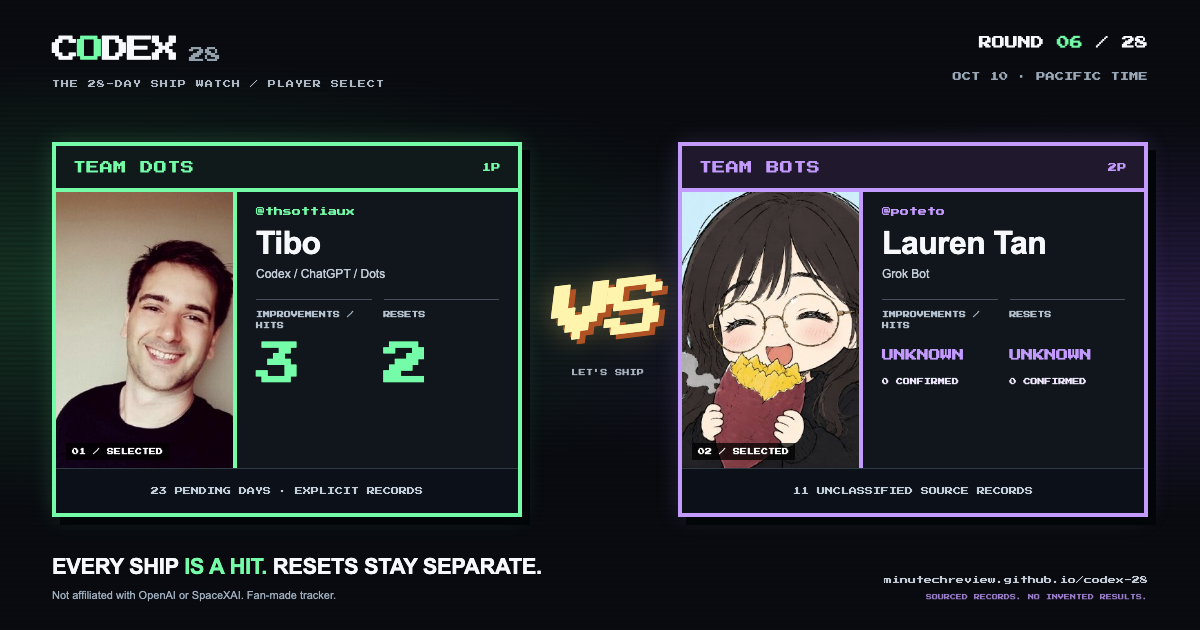
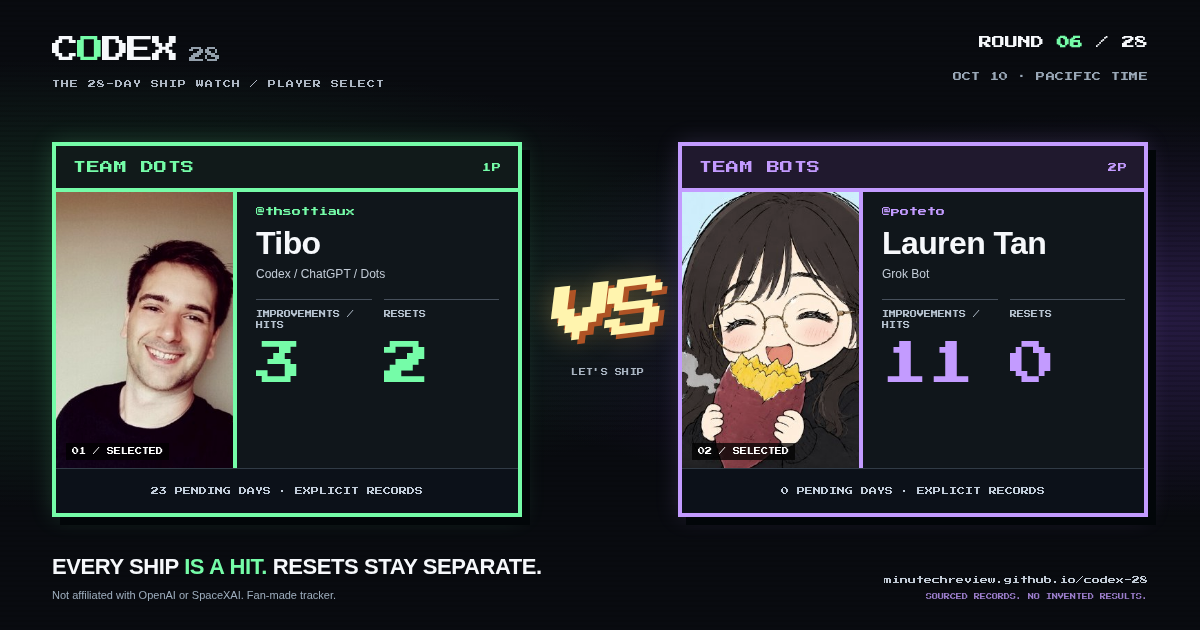
Label all 11 Grok Bot entries status=improvement; accept optional improvement/reset status in versus validation; regenerate share card

diff --git a/versus-model.js b/versus-model.js
@@ -6,6 +6,9 @@ export const PACIFIC_TIMEZONE = "America/Los_Angeles";
 const DAY_MS = 86_400_000;
 const TEAM_KEYS = ["team", "name", "handle", "profileUrl", "role", "avatar", "product", "entriesSource"];
 const ENTRY_KEYS = ["number", "summary", "tweetUrl", "postedAt", "announcedBy", "potetoUrl"];
+// Optional per-entry label, mirroring data.json's day status. Absent = unclassified.
+const ENTRY_OPTIONAL_KEYS = ["status"];
+const ENTRY_STATUSES = Object.freeze(["improvement", "reset"]);
 const midnightCache = new Map();
 
 function fail(message) {
@@ -77,7 +80,10 @@ function validateTeam(raw, side) {
 
 function validateGrokEntry(raw, day, index, timezone) {
   const label = `Round ${day.day} Grok entry ${index + 1}`;
-  assertRecord(raw, ENTRY_KEYS, label);
+  assertRecord(raw, ENTRY_KEYS, label, ENTRY_OPTIONAL_KEYS);
+  if (Object.hasOwn(raw, "status") && !ENTRY_STATUSES.includes(raw.status)) {
+    fail(`${label} status must be one of: ${ENTRY_STATUSES.join(", ")}.`);
+  }
   if (typeof raw.number !== "string" || !new RegExp(`^${day.day}\\.[1-9]\\d*$`).test(raw.number)) {
     fail(`${label} number must identify its round and update.`);
   }
@@ -87,8 +93,8 @@ function validateGrokEntry(raw, day, index, timezone) {
   assertTimestamp(raw.postedAt, `${label} postedAt`);
   if (dateInTimezone(raw.postedAt, timezone) !== day.date) fail(`${label} postedAt does not match its round's local date.`);
   if (typeof raw.announcedBy !== "string" || !/^[A-Za-z0-9_]{1,15}$/.test(raw.announcedBy)) fail(`${label} announcedBy is invalid.`);
-  // The original six-field schema supplies no reset/improvement classification.
-  // Preserve that strict contract; source prose and update numbers are not types.
+  // Only an explicit status classifies an entry; prose and update numbers are not types.
+  const status = Object.hasOwn(raw, "status") ? raw.status : null;
   return Object.freeze({
     number: raw.number,
     summary: raw.summary,
@@ -97,8 +103,8 @@ function validateGrokEntry(raw, day, index, timezone) {
     postedAt: raw.postedAt,
     announcedBy: raw.announcedBy,
     potetoUrl: raw.potetoUrl,
-    status: null,
-    classification: "unknown",
+    status,
+    classification: status ?? "unknown",
   });
 }
 

diff --git a/index.html b/index.html
@@ -3,7 +3,7 @@
 <head>
 <meta charset="utf-8"><meta name="viewport" content="width=device-width, initial-scale=1"><meta name="theme-color" content="#090b10">
 <meta name="description" content="Team Dots versus Team Bots. A 28-round fan tracker of sourced improvements and resets.">
-<meta property="og:title" content="CODEX 28 — TEAM DOTS VS TEAM BOTS"><meta property="og:description" content="Team Dots: 3 confirmed hits, 2 resets, 23 pending days. Team Bots: hits and resets UNKNOWN; 0 confirmed hits, 0 confirmed resets, 11 unclassified records."><meta property="og:type" content="website"><meta property="og:url" content="https://minutechreview.github.io/codex-28/"><meta property="og:image" content="https://minutechreview.github.io/codex-28/assets/versus-share.png"><meta property="og:image:width" content="1200"><meta property="og:image:height" content="630"><meta property="og:image:alt" content="Original arcade VERSUS card with portraits of Tibo and Lauren Tan. Team Dots: 3 confirmed hits, 2 resets, 23 pending days. Team Bots: hits and resets UNKNOWN; 0 confirmed hits, 0 confirmed resets, 11 unclassified records."><meta name="twitter:card" content="summary_large_image">
+<meta property="og:title" content="CODEX 28 — TEAM DOTS VS TEAM BOTS"><meta property="og:description" content="Team Dots: 3 confirmed hits, 2 resets, 23 pending days. Team Bots: 11 confirmed hits, 0 resets, 0 pending days."><meta property="og:type" content="website"><meta property="og:url" content="https://minutechreview.github.io/codex-28/"><meta property="og:image" content="https://minutechreview.github.io/codex-28/assets/versus-share.png"><meta property="og:image:width" content="1200"><meta property="og:image:height" content="630"><meta property="og:image:alt" content="Original arcade VERSUS card with portraits of Tibo and Lauren Tan. Team Dots: 3 confirmed hits, 2 resets, 23 pending days. Team Bots: 11 confirmed hits, 0 resets, 0 pending days."><meta name="twitter:card" content="summary_large_image">
 <title>CODEX 28 — DOTS VS BOTS</title><link rel="icon" href="./assets/versus-favicon.svg" type="image/svg+xml"><link rel="stylesheet" href="./versus.css"><script type="module" src="./versus-app.js"></script>
 </head>
 <body>

diff --git a/tests/versus-model.test.js b/tests/versus-model.test.js
@@ -128,11 +128,21 @@ test("a pending side does not lose a populated round by inference", () => {
   assert.equal(validate(raw).days[0].winner, "unresolved");
 });
 
-test("original Grok schema rejects added classification fields without changing its content", () => {
-  for (const field of ["status", "type"]) {
-    const raw = fixture();
-    botsEntry(raw, 1)[field] = "reset";
-    assert.throws(() => validate(raw), DataValidationError);
+test("Grok entries accept an explicit improvement/reset status and reject other classification fields", () => {
+  const raw = fixture();
+  dotsResult(raw, 1, "improvement");
+  botsEntry(raw, 1, "improvement");
+  botsEntry(raw, 1, "improvement");
+  botsEntry(raw, 1, "reset");
+  const data = validate(raw);
+  assert.deepEqual({
+    hits: data.days[0].bots.hits, resets: data.days[0].bots.resets, unclassified: data.days[0].bots.unclassified,
+  }, { hits: 2, resets: 1, unclassified: 0 });
+  assert.equal(data.days[0].winner, "bots");
+  for (const [field, value] of [["type", "reset"], ["status", "pending"], ["status", "missed"], ["status", ""]]) {
+    const bad = fixture();
+    botsEntry(bad, 1)[field] = value;
+    assert.throws(() => validate(bad), DataValidationError);
   }
 });
 

diff --git a/scripts/versus-browser-qa.py b/scripts/versus-browser-qa.py
@@ -359,9 +359,14 @@ def test_controls(browser, site):
         dots_resets = sum(day["status"] == "reset" for day in BASE_DATA["days"])
         expect(page.locator("#hits-dots")).to_contain_text(str(dots_hits))
         expect(page.locator("#resets-dots")).to_contain_text(str(dots_resets))
-        expect(page.locator("#hits-bots")).to_contain_text("?")
-        expect(page.locator("#resets-bots")).to_contain_text("?")
-        passed("Typed Tibo day records render separate improvements/resets; original untyped Grok records remain unknown")
+        grok = [entry for day in BASE_VERSUS["days"] for entry in day["grokbot"]]
+        if all("status" in entry for entry in grok):
+            expect(page.locator("#hits-bots")).to_contain_text(str(sum(e["status"] == "improvement" for e in grok)))
+            expect(page.locator("#resets-bots")).to_contain_text(str(sum(e["status"] == "reset" for e in grok)))
+        else:
+            expect(page.locator("#hits-bots")).to_contain_text("?")
+            expect(page.locator("#resets-bots")).to_contain_text("?")
+        passed("Typed Tibo day records and explicitly labelled Grok records render separate improvements/resets; untyped Grok records would stay unknown")
     finally:
         context.close()
 
@@ -416,17 +421,21 @@ def test_data(browser, site):
         context.close()
 
     malformed = copy.deepcopy(BASE_VERSUS)
-    malformed["days"][0]["grokbot"][0]["status"] = "improvement"
+    original_status = malformed["days"][0]["grokbot"][0].get("status")
+    malformed["days"][0]["grokbot"][0]["type"] = "improvement"
     context, page = setup_context(browser, site, versus=malformed)
     try:
         page.goto(site, wait_until="networkidle")
         expect(page.locator("#data-status")).to_contain_text("Data unavailable")
         expect(page.locator("#round-number")).to_have_text("--")
-        del malformed["days"][0]["grokbot"][0]["status"]
+        del malformed["days"][0]["grokbot"][0]["type"]
         page.locator("#data-refresh").click()
         check_round(page, 6)
-        expect(page.locator("#hits-bots")).to_contain_text("?")
-        passed("Unknown Grok source fields fail strict validation; retry recovers original schema without inventing classification")
+        if original_status is None:
+            expect(page.locator("#hits-bots")).to_contain_text("?")
+        else:
+            expect(page.locator("#hits-bots")).not_to_contain_text("?")
+        passed("Unknown Grok source fields fail strict validation; retry recovers the source schema without inventing classification")
     finally:
         context.close()
 

diff --git a/docs/versus-rules.md b/docs/versus-rules.md
@@ -6,17 +6,9 @@ This draft reads the existing sources without rewriting either. Tibo's 28 day/st
 
 One record explicitly classified `improvement` counts as one hit. One `reset` counts as one reset and **zero hits**, even when its prose mentions improvements. `pending` and `missed` are zero hits and zero resets. A summary is not a structured list: the adapter does not split numbered prose into invented updates. The Tibo card currently shows **3 improvement records and 2 reset records**, not a count of every feature mentioned in those summaries.
 
-Each Grok item has an update number, summary and source, but the current 11 records have **no type/status field**. Both its improvement and reset totals are **unknown**, with 0 confirmed hits/0 confirmed resets and 11 unclassified records. This does not mean Grok shipped zero improvements. The validator does not accept invented classification fields or rewrite the schema. No data file was changed.
+Each Grok item has an update number, summary, source and an explicit `status` label, mirroring `data.json`'s day status. Accepted values are `improvement` (one hit) and `reset` (one reset, zero hits). An entry without `status` stays **unclassified**, which makes its round and the totals unknown; any other value, or any other added field such as `type`, is rejected. `number` identifies an update; it does not classify it. All 11 current Grok records are labelled `improvement` (each is a shipped launch, release or fix; none is a usage reset), so Team Bots currently shows 11 confirmed hits and 0 resets.
 
-All 11 original `days[].grokbot[]` objects contain exactly `announcedBy`, `number`, `postedAt`, `potetoUrl`, `summary`, and `tweetUrl`. Neither `status` nor `type` occurs in any of them. `number` identifies an update; it does not classify it as an improvement or reset. This small projection illustrates the missing classification without copying a full source record:
-
-```json
-{"number": "1.1", "announcedBy": "ericzakariasson"}
-```
-
-The projected record's original `status` and `type` are absent, not empty or `pending`.
-
-Daily winners compare classified improvement records (resets excluded). Any unclassified or pending populated lane makes the result **UNRESOLVED**. Empty lanes show **NO MOVE**. If both lanes are empty, their recorded count is a **DRAW**, with pending/future labels retained; that does not establish a real-world missed day. Current populated rounds 1–6 are unresolved. A window-end **KO** requires the window to have ended and all records to be classified with no pending results. Winner = greater total confirmed hits, equal totals = final draw. Current data cannot establish a final winner.
+Daily winners compare classified improvement records (resets excluded). Any unclassified or pending populated lane makes the result **UNRESOLVED**. Empty lanes show **NO MOVE**. If both lanes are empty, their recorded count is a **DRAW**, with pending/future labels retained; that does not establish a real-world missed day. With current data, rounds 1 and 4 are draws, rounds 2, 3 and 5 go to Team Bots, and round 6 is unresolved while Tibo's day is pending. A window-end **KO** requires the window to have ended and all records to be classified with no pending results. Winner = greater total confirmed hits, equal totals = final draw. Current data cannot establish a final winner.
 
 ## Community health
 

diff --git a/README.md b/README.md
@@ -32,7 +32,7 @@ Static social crawlers cannot execute the runtime JSON fetch. Regenerate the sha
 
 `data.json` holds Tibo day records only; `versus.json` holds the top-level teams and aligned numbered Grok lists. The read-only adapter loads both and requires their calendars to match. Both actual files and their strict schemas are preserved; unknown fields are rejected. See [counting rules](docs/versus-rules.md) and [full repository audit](docs/repository-audit.md).
 
-Current Tibo data has **3 explicit improvement records / hits** and **2 explicit resets**. Numbered features inside prose do not establish separate typed records, and resets never count as hits. Grok's **11 entries lack type/status**: its hit/reset totals are unknown (0 confirmed each), and current populated round winners are unresolved. Empty rounds show NO MOVE; pending stays pending. A final KO after round 28 requires complete classified data and uses greater total confirmed hits; ties draw. No winner is invented.
+Current Tibo data has **3 explicit improvement records / hits** and **2 explicit resets**. Numbered features inside prose do not establish separate typed records, and resets never count as hits. Grok's **11 entries are explicitly labelled `status: "improvement"`** (11 hits, 0 resets); an entry without `status` would stay unclassified and leave its round unresolved. Empty rounds show NO MOVE; pending stays pending. A final KO after round 28 requires complete classified data and uses greater total confirmed hits; ties draw. No winner is invented.
 
 The second fighter is **Lauren Tan (@poteto, she/her)**, using `assets/poteto.jpg` on the right. Tibo uses `assets/tibo.jpg` on the left. The October 5–November 1 window is this project's counting convention, not a verified official schedule. The countdown uses America/Los_Angeles and respects the 25-hour final DST day.
 

diff --git a/docs/verification.md b/docs/verification.md
@@ -31,7 +31,7 @@ Both data files, existing avatars, `model.js`, legacy CSS/JS/client/config, migr
 
 The existing Worker/D1 supports the new choices through isolated routes and additive storage; no replacement backend remains in the PR. Local SQLite tests and intercepted browser requests do not establish deployed Cloudflare runtime behavior, capacity or a live team feature. The setup checklist requires separate authorization and isolated runtime verification before a cloud change or publication.
 
-Optional provider device/IP rate-limiting code is mocked and remains unconfigured. Its limits are approximate per Cloudflare location; UUIDs do not establish one verified person. Grok's 11 unclassified original-schema entries prevent verified hit/reset totals and winners. No cloud changes, live migration, production test votes, merge or deploy occurred.
+Optional provider device/IP rate-limiting code is mocked and remains unconfigured. Its limits are approximate per Cloudflare location; UUIDs do not establish one verified person. Grok's 11 entries now carry an explicit `status: "improvement"` label (optional field, validated to improvement/reset). No cloud changes, live migration, production test votes, merge or deploy occurred.
 
 ## Library delivery
 
